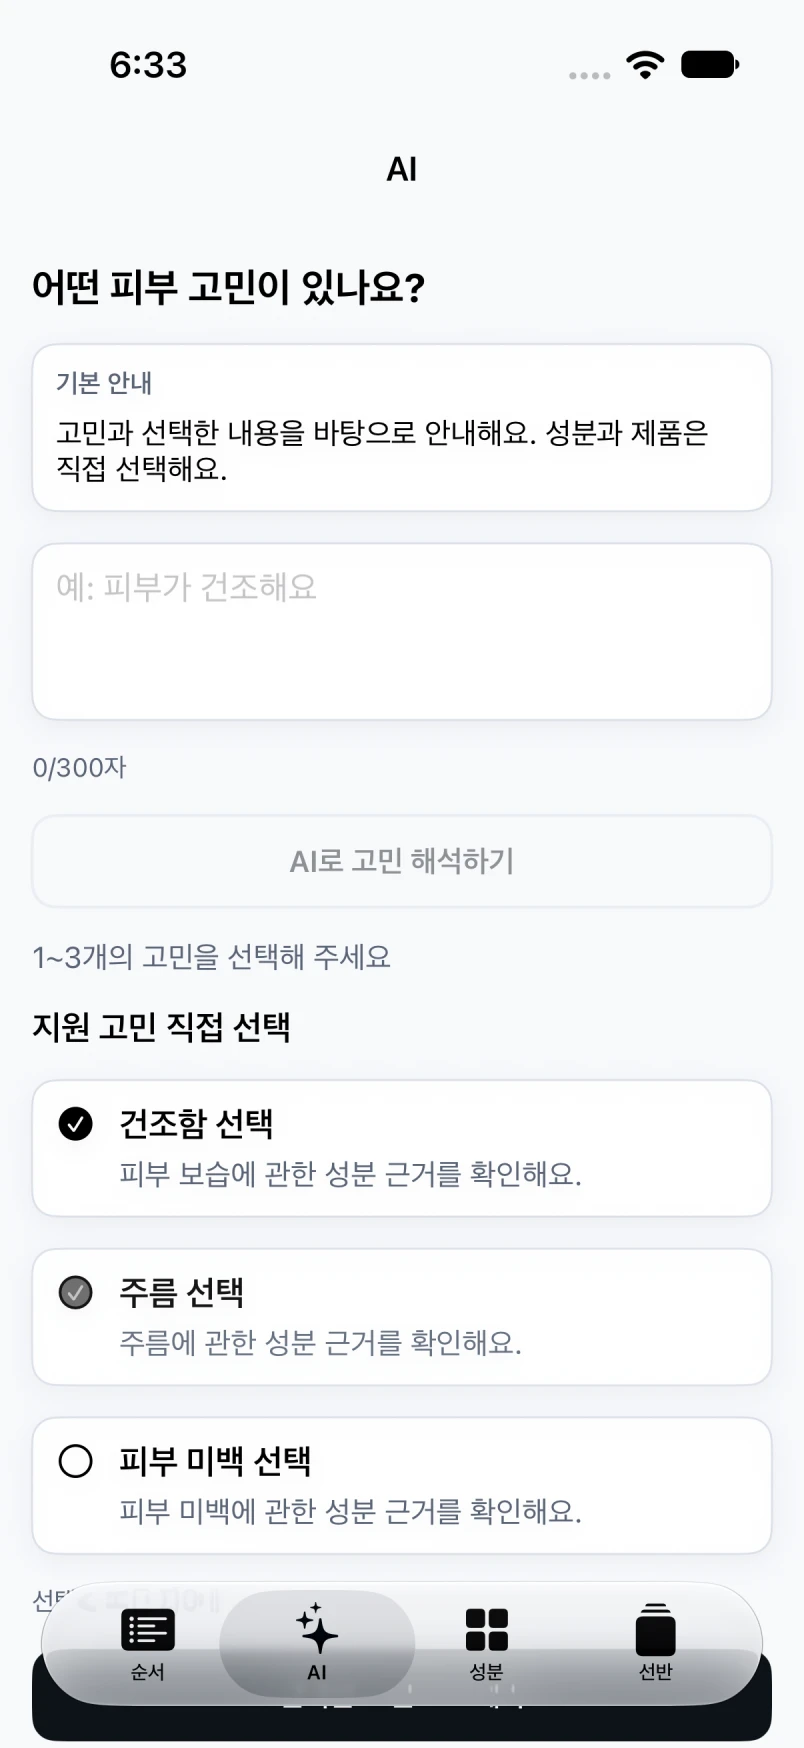
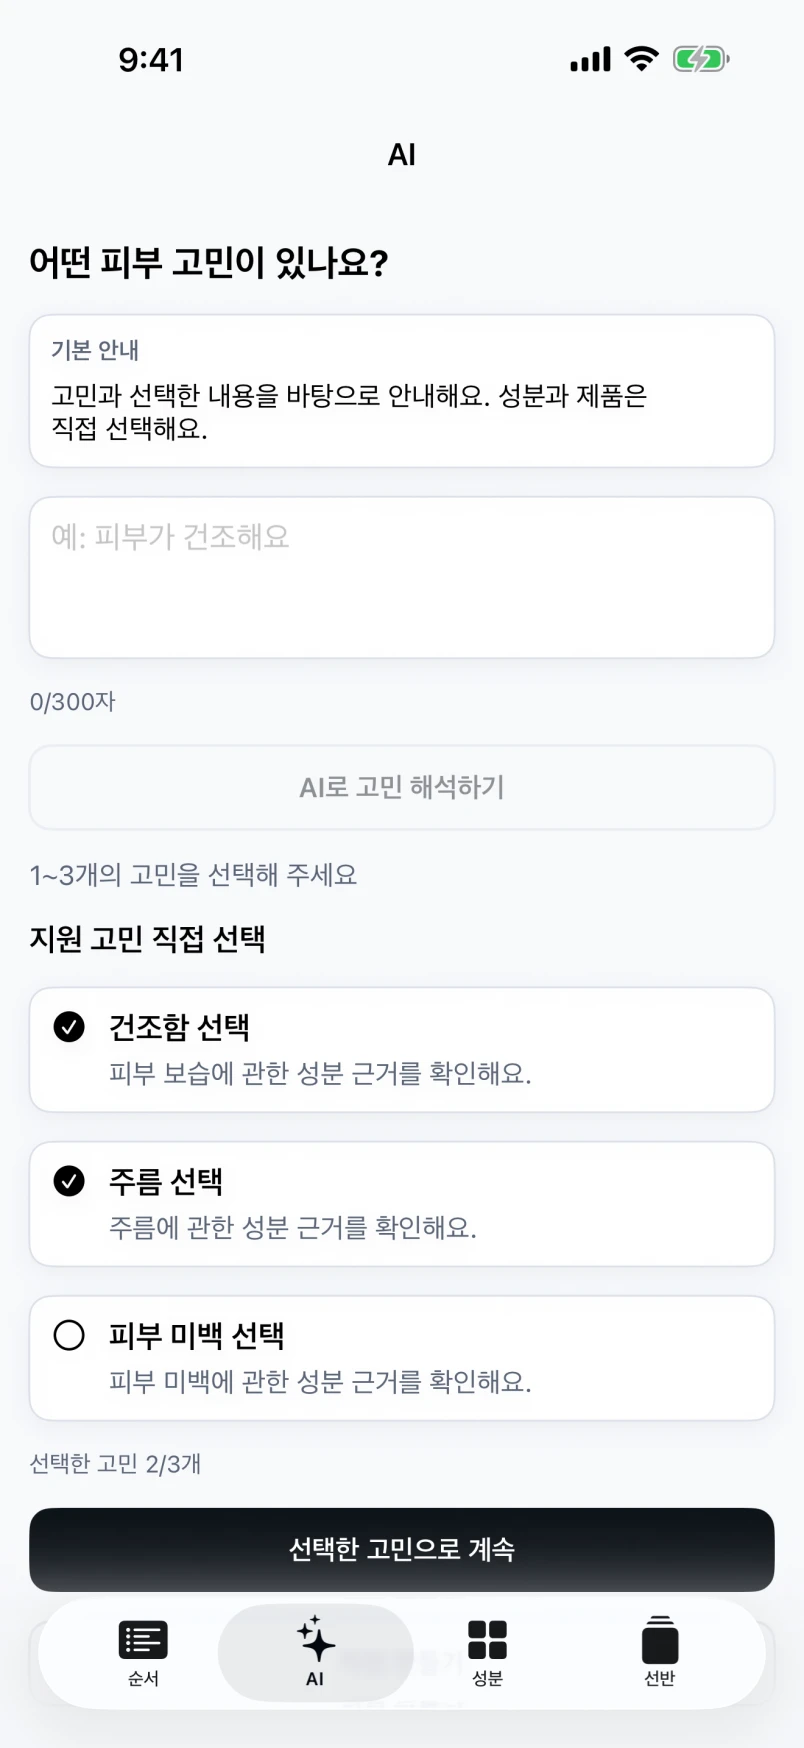
소개 사이트의 앱 화면과 업데이트 안내를 최신화한다

diff --git a/_layouts/landing.html b/_layouts/landing.html
@@ -34,7 +34,7 @@
         <div class="orbit orbit-one" aria-hidden="true"></div><div class="orbit orbit-two" aria-hidden="true"></div>
         <figure class="phone hero-phone-back"><img src="{{ '/assets/images/shelf.webp' | relative_url }}" width="804" height="1748" alt="가진 화장품을 모아둔 바름의 내 선반" decoding="async"></figure>
         <figure class="phone hero-phone-front"><img src="{{ '/assets/images/order.webp' | relative_url }}" width="804" height="1748" alt="오늘의 저녁 루틴과 바르는 순서를 보여주는 바름 앱" fetchpriority="high"></figure>
-        <figure class="hero-watch watch-device"><img src="{{ '/assets/images/watch-home.webp' | relative_url }}" width="324" height="394" alt="Apple Watch 바름 앱에서 오늘의 루틴을 확인하는 화면" decoding="async"></figure>
+        <figure class="hero-watch watch-device"><img src="{{ '/assets/images/watch-home.webp' | relative_url }}" width="368" height="448" alt="Apple Watch 바름 앱에서 오늘의 루틴을 확인하는 화면" decoding="async"></figure>
       </div>
     </section>
 
@@ -58,10 +58,12 @@
         <figure class="shelf-frame"><img src="{{ '/assets/images/shelf.webp' | relative_url }}" width="804" height="1748" alt="가진 제품을 모아둔 내 선반의 데모 화면" loading="lazy" decoding="async"></figure>
         <div class="routine-bridge"><span class="bridge-label">내 선반에서</span><span class="bridge-line" aria-hidden="true"></span><span class="bridge-label">오늘의 루틴으로</span></div>
         <figure class="routine-frame"><img src="{{ '/assets/images/order.webp' | relative_url }}" width="804" height="1748" alt="제품을 바르는 순서와 대기시간이 표시된 오늘의 루틴" loading="lazy" decoding="async"></figure>
-        <p class="stage-caption">가진 제품으로 시작하는 아침과 저녁.</p>
+        <p class="stage-caption">순서 · AI · 성분 · 선반, 네 가지 탭으로 이어지는 루틴.</p>
       </div>
-      <div class="routine-notes"><p><strong>한곳에 모은 내 선반</strong>사용 중인 제품을 담고 살펴보세요.</p><p><strong>아침과 저녁의 루틴</strong>시간대에 맞춰 오늘의 순서를 확인하세요.</p><p><strong>순서와 함께 보는 안내</strong>대기시간과 함께 사용할 때의 주의사항도 확인하세요.</p></div>
+      <div class="routine-notes"><p><strong>한곳에 모은 내 선반</strong>제품명을 검색하거나 라벨을 스캔하고, 읽은 내용을 확인해 담으세요.</p><p><strong>아침과 저녁의 루틴</strong>시간대에 맞춰 오늘의 순서를 확인하세요.</p><p><strong>순서와 함께 보는 안내</strong>대기시간과 함께 사용할 때의 주의사항도 확인하세요.</p></div>
     </section>
+
+    <p class="asset-note wrap">다음 업데이트 1.0.3은 App Store 심사 중입니다. 긴 제품명·성분 태그 편집과 가로·넓은 화면의 탐색, 루틴 저장 재시도 안내를 개선했습니다. 제공 시점은 심사 결과에 따라 달라집니다.</p>
 
     <section class="ai-section wrap section-space" id="ai-routine" aria-labelledby="ai-title">
       <div class="ai-intro reveal">
@@ -123,7 +125,7 @@
     </section>
 
     <section class="watch-section" id="watch" aria-labelledby="watch-title"><div class="wrap watch-layout">
-      <div class="watch-stage reveal"><figure class="watch-device watch-home"><img src="{{ '/assets/images/watch-home.webp' | relative_url }}" width="324" height="394" alt="Apple Watch 바름 앱의 오늘의 루틴과 진행 단계 화면" loading="lazy" decoding="async"></figure><figure class="watch-device watch-routine"><img src="{{ '/assets/images/watch-routine.webp' | relative_url }}" width="324" height="394" alt="Apple Watch에서 지금 바를 제품과 단계 안내를 확인하는 데모 화면" loading="lazy" decoding="async"></figure></div>
+      <div class="watch-stage reveal"><figure class="watch-device watch-home"><img src="{{ '/assets/images/watch-home.webp' | relative_url }}" width="368" height="448" alt="Apple Watch 바름 앱의 오늘의 루틴과 진행 단계 화면" loading="lazy" decoding="async"></figure><figure class="watch-device watch-routine"><img src="{{ '/assets/images/watch-routine.webp' | relative_url }}" width="368" height="448" alt="Apple Watch에서 지금 바를 제품과 단계 안내를 확인하는 데모 화면" loading="lazy" decoding="async"></figure></div>
       <div class="watch-copy reveal"><p class="section-label">watchOS용 바름</p><h2 id="watch-title">손목에서 확인하고,<br>한 단계를 체크.</h2><p class="section-description">iPhone에서 준비한 오늘의 순서를 Apple Watch로.<br>다음 제품과 대기시간을 확인하고,<br>‘발랐어요’ 또는 ‘건너뛰기’를 기록하세요.</p><ul class="plain-features"><li>아침·저녁 루틴과 진행 단계 확인</li><li>현재 제품의 안내와 대기시간 확인</li><li>순서의 이유·주의사항·근거 상세 보기</li><li>iPhone과 루틴 진행 상황 동기화</li></ul><p class="visual-note">iPhone에서 계정을 연결하고 오늘의 순서를 불러온 뒤 사용합니다. 화면은 Apple Watch 앱의 데모 데이터입니다.</p></div>
     </div></section>
 

diff --git a/docs/releases/2026-10-10-introduction-refresh.md b/docs/releases/2026-10-10-introduction-refresh.md
@@ -1,0 +1,23 @@
+# 소개 사이트 앱 화면 최신화
+
+2026-10-10 01:39:35 KST, `bareum.app`의 기존 구성 안에서 앱 화면 8개와 소개 문구를 갱신했다.
+
+- 순서·선반을 4탭 공용 UI 캡처로 교체했다.
+- AI 3개 화면과 피부층 모식도를 현재 App Store 등록용 데모로 교체했다. AI 근거 화면의 기존 합성 문헌 예시도 등록용 화면으로 대체됐다.
+- 워치 홈·진행 화면과 이미지 치수를 갱신했다.
+- 제품명 검색·라벨 확인 안내와 1.0.3 심사 중 안내를 반영했다. 심사 중 기능을 공개 버전에서 사용할 수 있다고 표시하지 않았다.
+- 이미지 원본·데모 조건·크기 변환은 `docs/landing-assets.md`에 기록했다. 새 빌드 전체를 재촬영한 작업은 아니다.
+
+## 검증과 배포
+
+- Jekyll 빌드·Wrangler dry-run 종료 코드 0. JavaScript 구문 검사·내부 이미지/앵커 링크·`git diff --check` 통과.
+- 브라우저에서 360/390/768/1440px 너비의 가로 넘침 없음. 모바일 AI 섹션과 앵커 이동, 운영 첫 화면의 이미지 로딩 확인.
+- Cloudflare MCP의 기존 인증으로 직접 정적 파일 배포. 로컬 Wrangler는 미인증이며 새 자격 증명을 만들지 않았다.
+- Worker: `bareum-legal`, 배포 ID: `ce5643b6c3d04c739243fee8fa051bed`.
+- 운영 홈·개인정보처리방침·약관·고객지원 4페이지와 교체 이미지 8개가 빌드 결과와 바이트 단위로 일치했다. 배포 직후 첫 조회의 전파 지연은 재조회에서 해소됐다.
+- `www`는 경로·쿼리를 유지해 대표 주소로 301, HTTP는 HTTPS로 301, `/privacy`는 `/privacy/`로 307, 미등록 경로는 404.
+- 기존 로컬 `_includes/head-custom.html`의 네이버 인증 태그는 이미 운영에 존재함을 배포 전에 확인해 보존했으며 이번 커밋에 포함하지 않았다. 기존 미추적 검색 등록 기록도 보존했다.
+- 증거·manifest·빌드 로그: `/tmp/bareum-site-refresh-20261010/`. 일회성 배포 토큰은 완료 후 삭제했다.
+- 전체 접근성 자동 검사·키보드·JS 미사용·동작 줄이기를 새로 실행하지 않았다. CSS/JS와 정책 문서 본문은 변경하지 않았다.
+
+공식 배포 절차: https://developers.cloudflare.com/workers/static-assets/direct-upload/

diff --git a/docs/landing-assets.md b/docs/landing-assets.md
@@ -46,3 +46,22 @@
 `history.webp`는 무료 기간을 보장하는 문구를 제거한 앱 fixture로 다시 빌드·실행한 실제 데모 화면이다. `Bareum-Free-Copy-Web-20260929` iPhone 18 Pro / iOS 27 시뮬레이터에서 `--design-preview=history`로 캡처했다. 하단 안내는 “이전 달의 기록도 확인할 수 있어요.”이며 가격·무료 기간을 약속하지 않는다.
 
 원본은 `/Users/conny/bareum-backups/20260929-free-copy-web/history.png`에 보존했다. `cwebp -resize 804 1748 -q 90`의 크기·형식 변환만 적용했고 앱 내용은 편집하지 않았다. 합성 fixture 데이터이며 운영 사용자 기록이 아니다.
+
+## 소개 화면 최신화 (2026-10-10)
+
+위 과거 캡처 기록에 우선하여, 다음 8개 파일을 현재 App Store 등록용 앱 데모 캡처로 교체했다. 이번 작업에서 새 앱 캡처를 촬영한 것은 아니다. 앱 저장소 `docs/research/` 아래 원본을 사용했으며, 제품·문구·UI를 합성하지 않았다.
+
+| 사이트 이미지 | 원본 |
+|---|---|
+| `order.webp` | `app-store-screenshots-2026-09-29/01-order.png` |
+| `shelf.webp` | `app-store-screenshots-2026-09-29/03-shelf.png` |
+| `absorption.webp` | `app-store-screenshots-2026-09-29/04-distribution.png` |
+| `ai-concerns.webp` | `app-store-screenshots-2026-09-29/05-ai-concerns.png` |
+| `ai-ingredients.webp` | `app-store-screenshots-2026-09-29/06-ai-ingredients.png` |
+| `ai-forms.webp` | `app-store-screenshots-2026-09-29/07-ai-forms.png` |
+| `watch-home.webp` | `app-store-watch-screenshots-2026-09-29/01-watch-home.png` |
+| `watch-routine.webp` | `app-store-watch-screenshots-2026-10-07/02-watch-routine.png` |
+
+아이폰은 804×1748, 워치는 원본 368×448을 유지하여 WebP quality 90으로 변환했다. 순서·선반은 4탭 공용 UI를 사용한다. AI 화면은 주입된 데모 안내이며 실제 모델 출력이 아니다. AI 성분 화면의 근거는 기존 합성 문헌 예시 대신 App Store 원본에 포함된 기준 데이터의 문헌으로 교체됐다.
+
+위젯·다이나믹 아일랜드·실시간 현황의 디자인 예시 표시는 유지한다. 트리맵·기록·공유 이미지의 기존 출처도 유지한다. 최신 심사 빌드 65의 모든 화면을 재촬영했다고 해석하지 않는다.

diff --git a/docs/app-introduction.md b/docs/app-introduction.md
@@ -52,3 +52,5 @@ Watch·트리맵·피부층 UI는 앱 데모 화면이다. 위젯·다이나믹 
 `docs/`는 배포에서 제외한다. 사이트 소스와 공개 정책 문서는 이 저장소에서 관리하고 앱 저장소에 복제하지 않는다.
 
 2026-09-29: 내부 배포 1.0 (59)의 복합 고민·맥락별 AI 안내를 소개에 반영했다. AI 지원 조건과 직접 선택 대체 흐름을 함께 설명한다. 앱은 여전히 공개 출시 전이므로 다운로드 URL은 빈 값으로 유지한다.
+
+2026-10-10: 기존 화면 배치를 유지하면서 순서·선반·AI·피부층·워치 이미지 8개를 App Store 등록용 데모로 갱신했다. 공개 버전과 구분하여 1.0.3 심사 중 안내를 추가했다. 승인 후에는 해당 상태 문구를 갱신한다. 화면 출처는 `landing-assets.md`의 같은 날짜 항목을 따른다.
